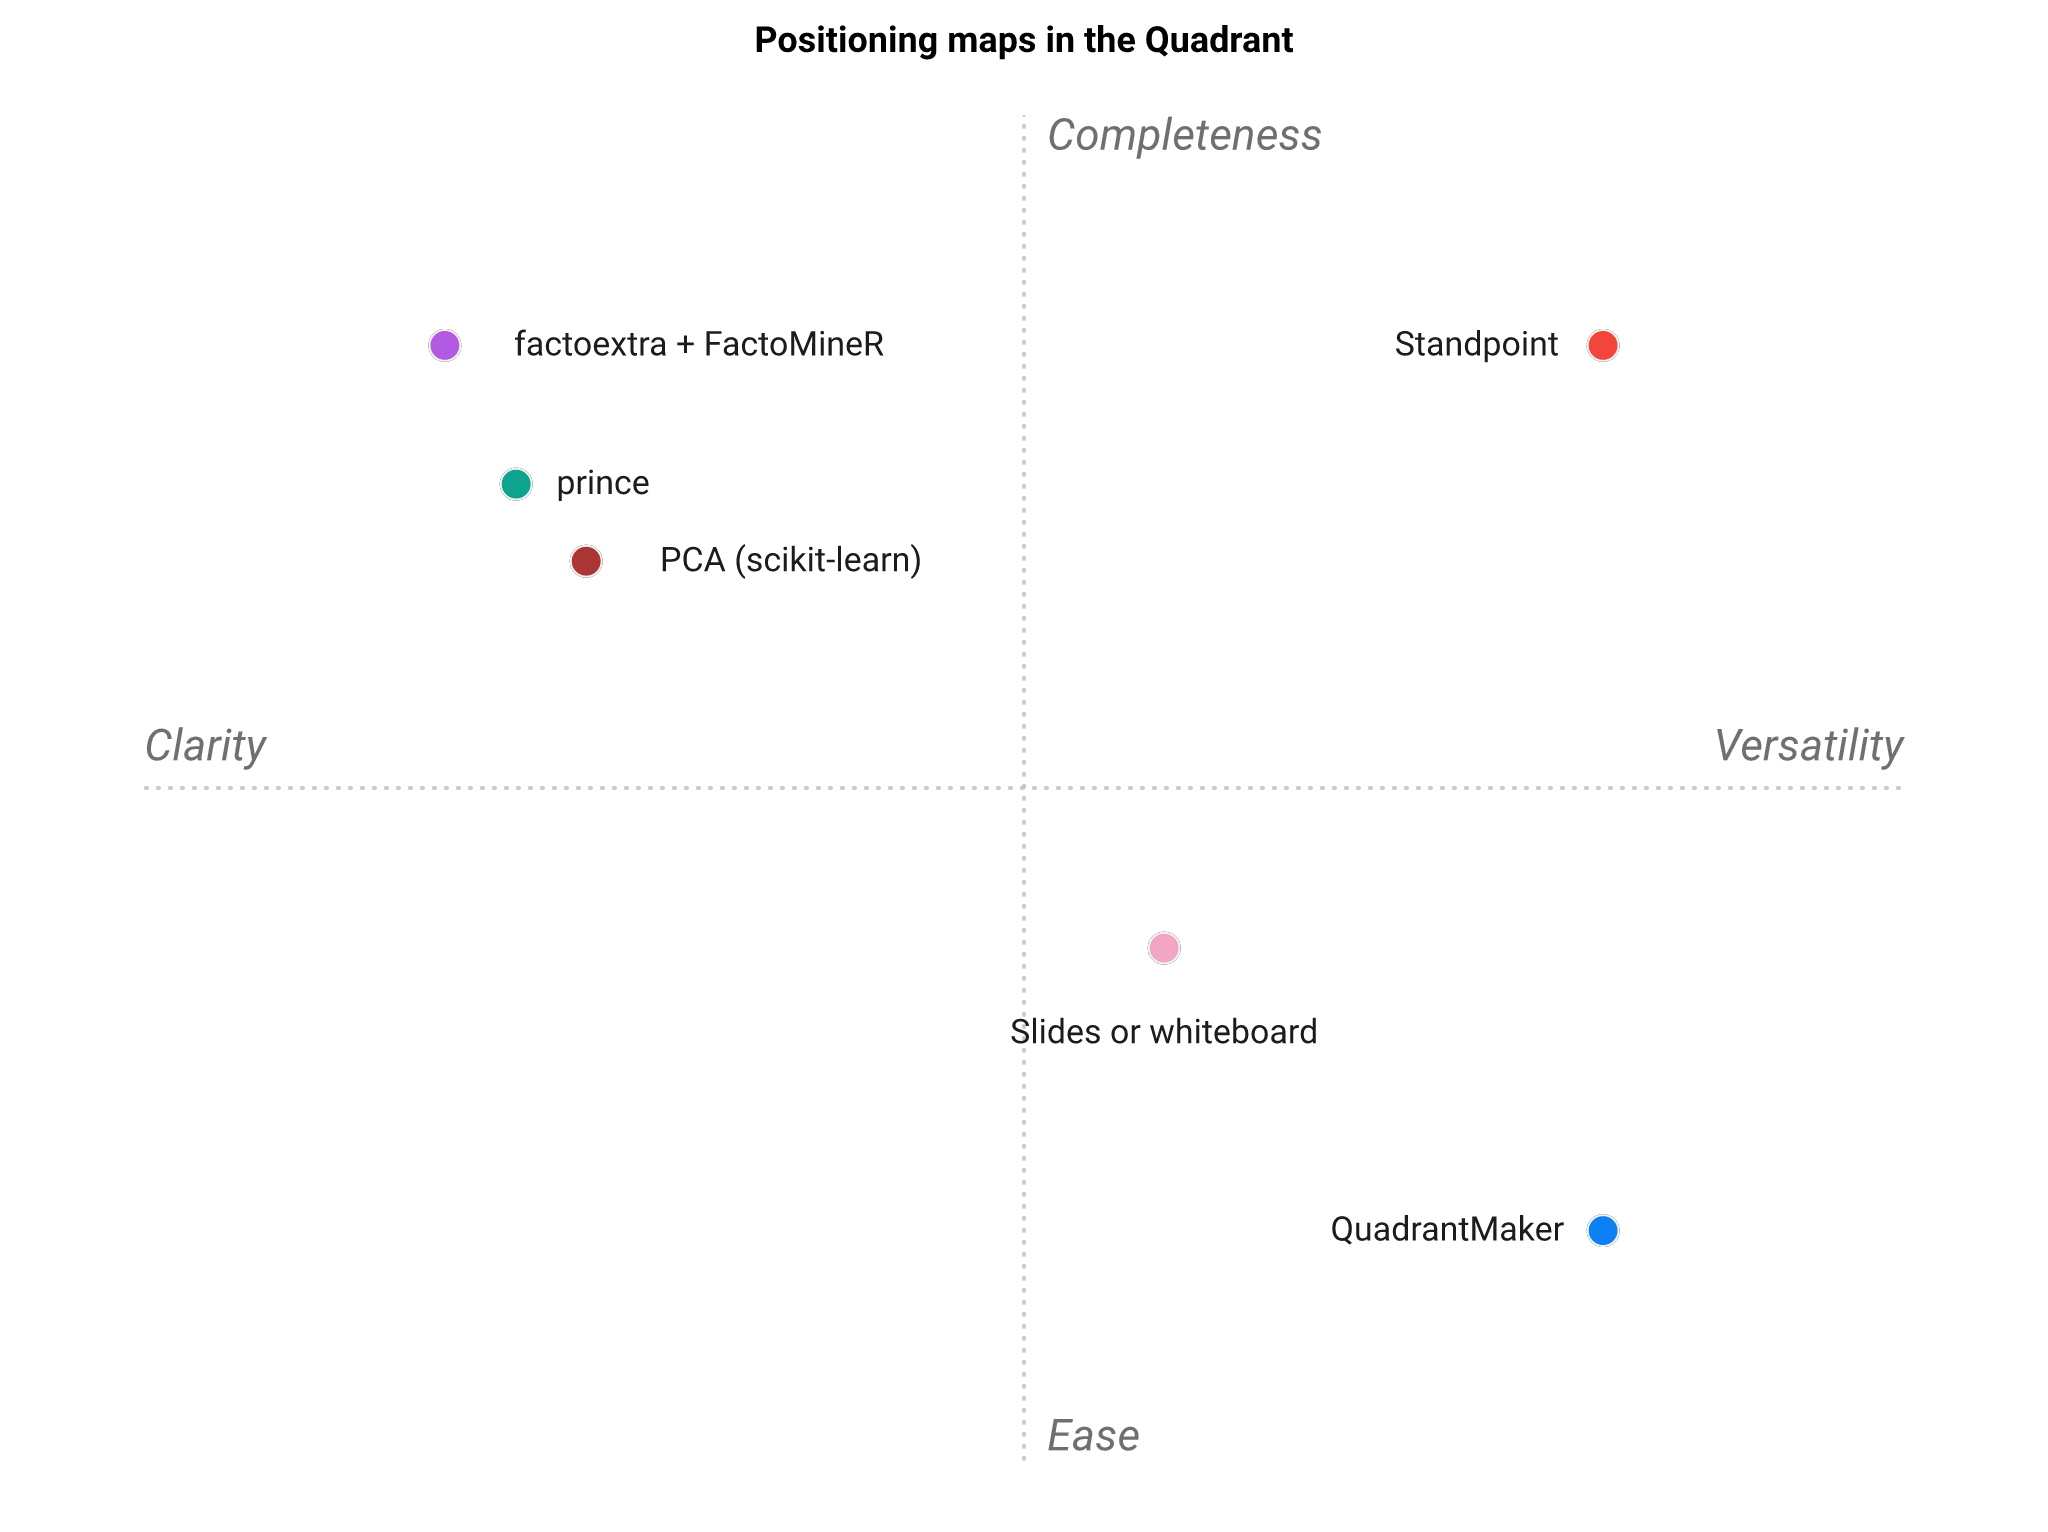
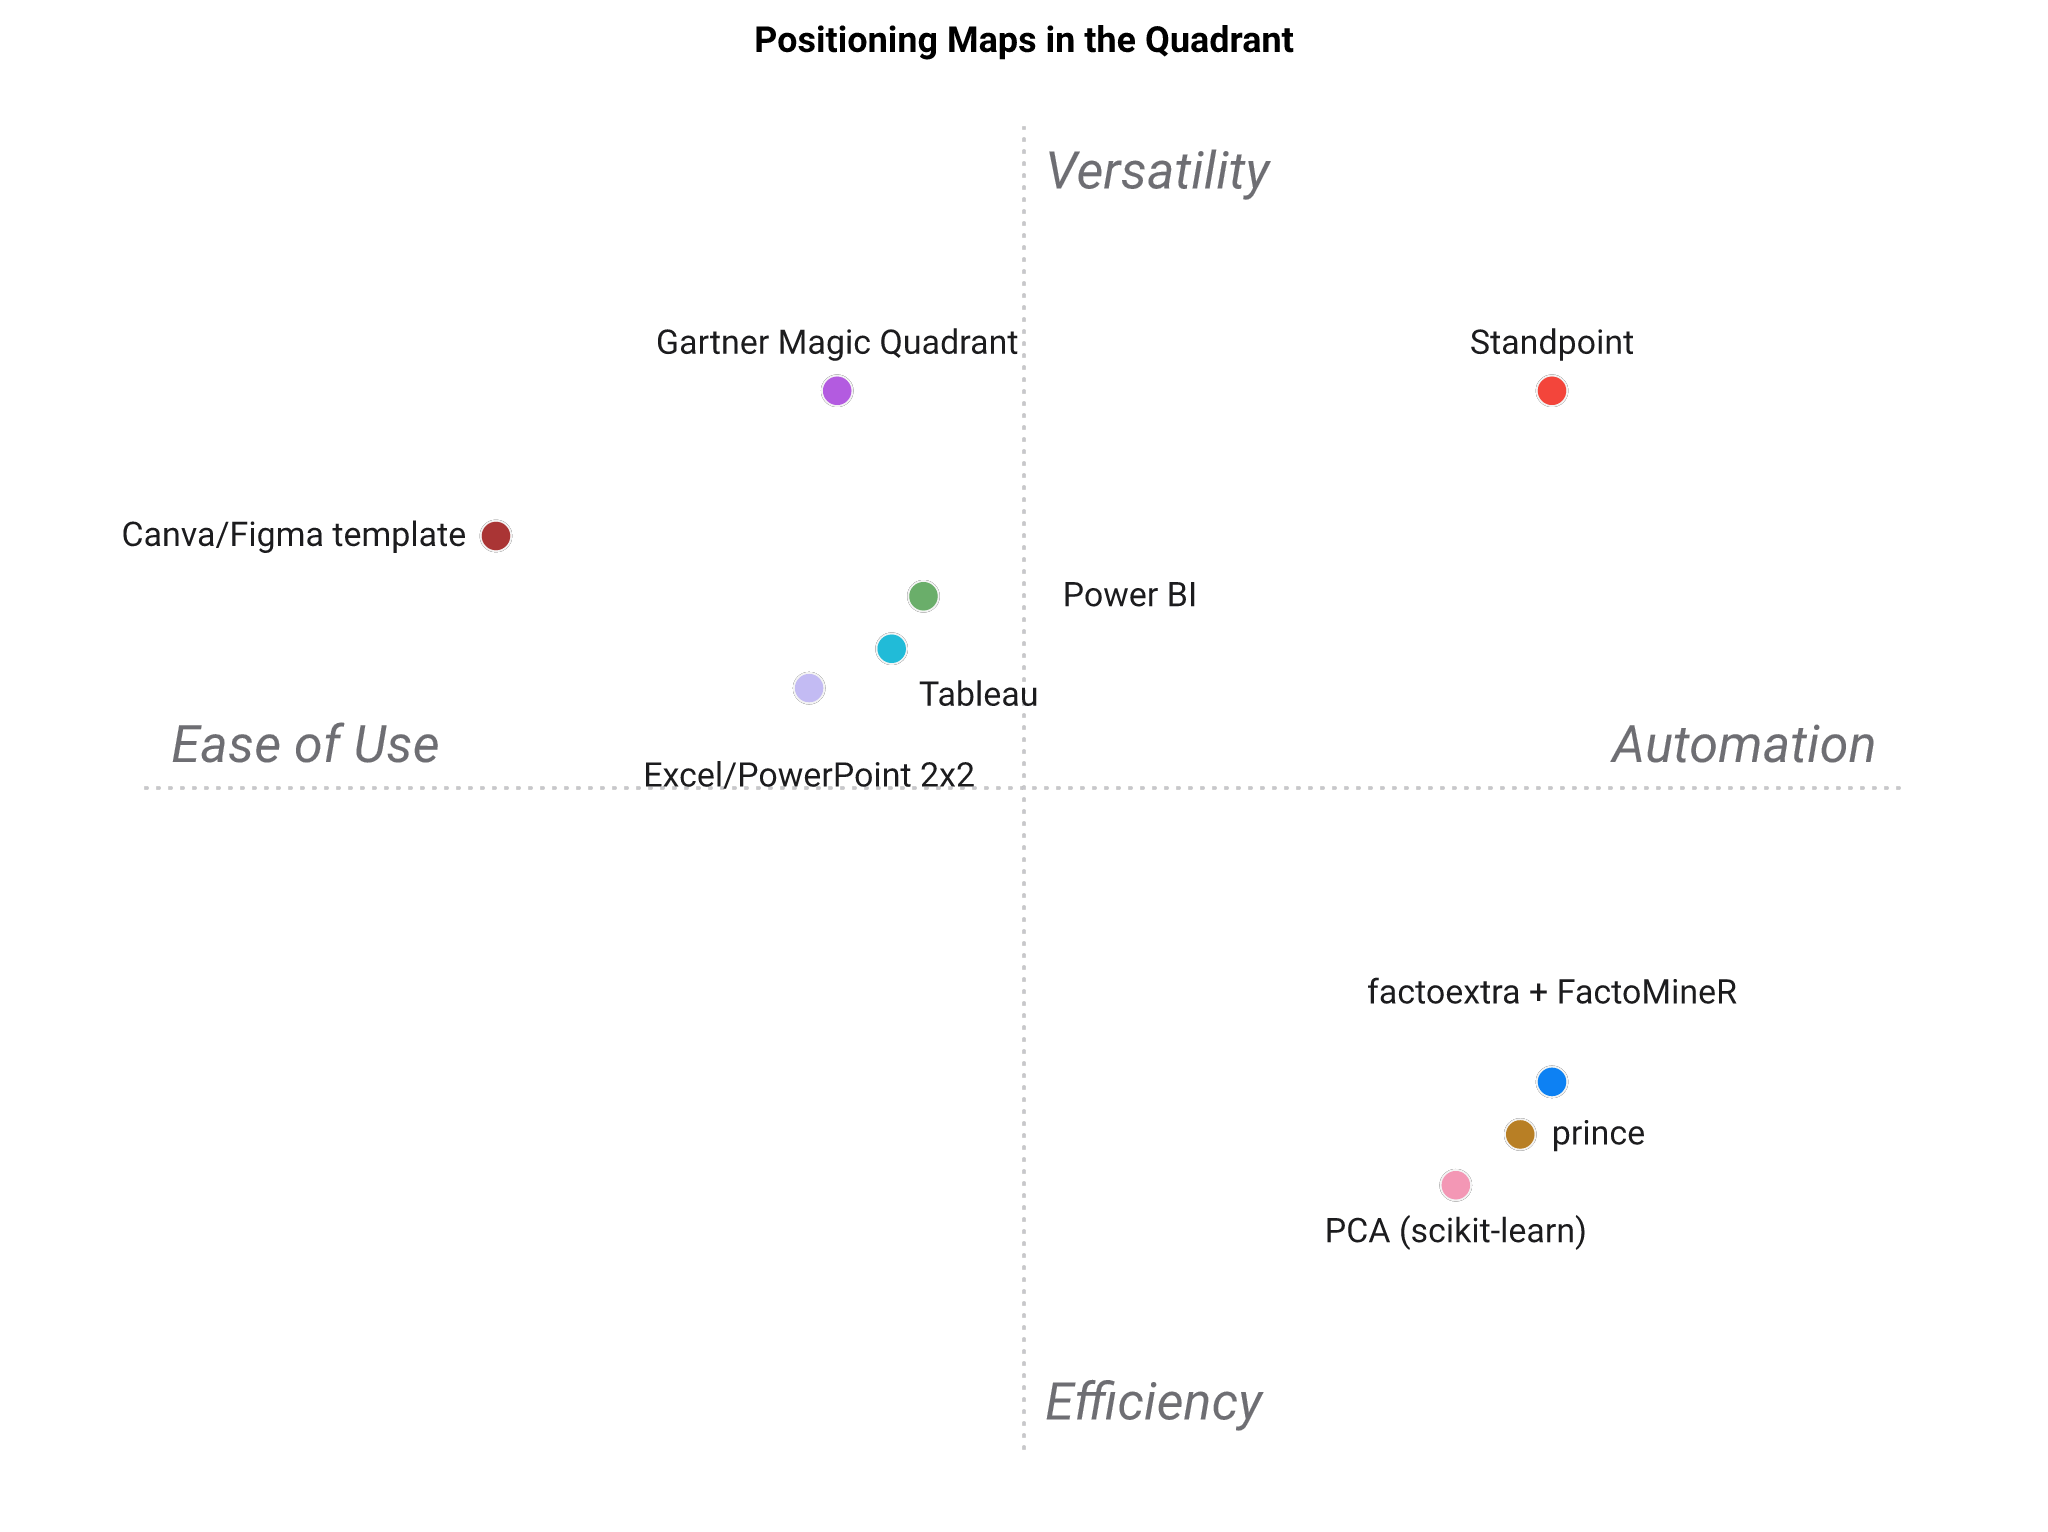
docs(landscape): richer comparison table + regenerated positioning map
Expand the LANDSCAPE / PAYSAGE comparison from ~5 to 9 options spanning the real
poles: the PCA toolkit family (prince, scikit-learn, factoextra+FactoMineR), the
manual/BI family (Tableau, Power BI, Excel/PowerPoint 2x2, Canva/Figma), and the
Gartner Magic Quadrant at the written-analysis pole. Tighten the criteria so each
column discriminates. Regenerate the figure via standpoint 0.6.0 and reconcile the
"How to read it" prose with the new option set.

diff --git a/PAYSAGE.md b/PAYSAGE.md
@@ -10,14 +10,17 @@ l'outil, exactement comme n'importe quel autre exemple.
 La comparaison (le plus haut, le meilleur, sur une échelle de 1 à 5) :
 
 <!-- TABLE:START -->
-| Cartes de positionnement | Nommage Automatique des Axes | Sortie Multilingue | Exécution Locale | Une Seule Commande | Livrable Triple | Reproductibilité | Axes Lisibles | Simplicité d'Installation |
+| Cartes de positionnement | Nommage Automatique des Axes | Une Seule Commande | Exécution Locale | Coordonnées Reproductibles | Analyse Rédigée | Sans Code | Sortie Multilingue | Fondé sur l'ACP |
 | --- | :---: | :---: | :---: | :---: | :---: | :---: | :---: | :---: |
-| **Standpoint** | ⭐⭐⭐⭐⭐ | ⭐⭐⭐⭐⭐ | ⭐⭐⭐⭐⭐ | ⭐⭐⭐⭐⭐ | ⭐⭐⭐⭐⭐ | ⭐⭐⭐⭐⭐ | ⭐⭐⭐⭐ | ⭐⭐⭐⭐ |
-| prince | ⭐ | ⭐ | ⭐⭐⭐⭐⭐ | ⭐⭐ | ⭐ | ⭐⭐⭐⭐⭐ | ⭐⭐⭐⭐⭐ | ⭐⭐⭐ |
-| PCA (scikit-learn) | ⭐ | ⭐ | ⭐⭐⭐⭐⭐ | ⭐⭐ | ⭐ | ⭐⭐⭐⭐⭐ | ⭐⭐⭐⭐ | ⭐⭐⭐ |
-| factoextra + FactoMineR | ⭐ | ⭐ | ⭐⭐⭐⭐⭐ | ⭐⭐ | ⭐⭐ | ⭐⭐⭐⭐⭐ | ⭐⭐⭐⭐⭐ | ⭐⭐ |
-| QuadrantMaker | ⭐ | ⭐⭐ | ⭐⭐ | ⭐⭐⭐⭐ | ⭐ | ⭐ | ⭐⭐ | ⭐⭐⭐⭐⭐ |
-| Diapositives ou tableau blanc | ⭐ | ⭐⭐⭐ | ⭐⭐⭐⭐⭐ | ⭐⭐ | ⭐ | ⭐ | ⭐⭐ | ⭐⭐⭐⭐ |
+| **Standpoint** | ⭐⭐⭐⭐⭐ | ⭐⭐⭐⭐⭐ | ⭐⭐⭐⭐⭐ | ⭐⭐⭐⭐⭐ | ⭐⭐⭐⭐⭐ | ⭐⭐⭐⭐ | ⭐⭐⭐⭐⭐ | ⭐⭐⭐⭐⭐ |
+| prince | ⭐ | ⭐⭐ | ⭐⭐⭐⭐⭐ | ⭐⭐⭐⭐⭐ | ⭐ | ⭐ | ⭐ | ⭐⭐⭐⭐⭐ |
+| PCA (scikit-learn) | ⭐ | ⭐ | ⭐⭐⭐⭐⭐ | ⭐⭐⭐⭐⭐ | ⭐ | ⭐ | ⭐ | ⭐⭐⭐⭐⭐ |
+| factoextra + FactoMineR | ⭐ | ⭐⭐ | ⭐⭐⭐⭐⭐ | ⭐⭐⭐⭐⭐ | ⭐⭐ | ⭐ | ⭐ | ⭐⭐⭐⭐⭐ |
+| Tableau | ⭐ | ⭐⭐⭐ | ⭐⭐⭐ | ⭐⭐⭐ | ⭐ | ⭐⭐⭐⭐ | ⭐⭐ | ⭐ |
+| Power BI | ⭐ | ⭐⭐⭐ | ⭐⭐⭐ | ⭐⭐⭐ | ⭐⭐ | ⭐⭐⭐⭐ | ⭐⭐ | ⭐ |
+| Gartner Magic Quadrant | ⭐⭐ | ⭐ | ⭐⭐⭐ | ⭐⭐ | ⭐⭐⭐⭐⭐ | ⭐⭐⭐⭐⭐ | ⭐⭐ | ⭐ |
+| Excel/PowerPoint 2x2 | ⭐ | ⭐ | ⭐⭐⭐⭐⭐ | ⭐ | ⭐ | ⭐⭐⭐⭐ | ⭐⭐⭐ | ⭐ |
+| Modèle Canva/Figma | ⭐ | ⭐ | ⭐⭐ | ⭐ | ⭐ | ⭐⭐⭐⭐⭐ | ⭐⭐⭐ | ⭐ |
 <!-- TABLE:END -->
 
 ## Carte de positionnement
@@ -27,7 +30,7 @@ Représentation 2D du tableau ci-dessus.
 
 ![Carte de positionnement](https://raw.githubusercontent.com/warith-harchaoui/standpoint/main/assets/paysage.png)
 
-La carte est un résumé en 2D des 8 critères : à lire comme une forme, pas comme un classement. « Standpoint » se situe dans le coin en haut à droite. Les axes se lisent **Horizontal (Précision ↔ Facilité d'utilisation)** et **Vertical (Simplicité ↔ Complétude)**.
+La carte est un résumé en 2D des 8 critères : à lire comme une forme, pas comme un classement. « Standpoint » se situe dans le coin en haut à droite. Les axes se lisent **Horizontal — Simplicité ↔ Compréhensibilité** et **Vertical — Précision ↔ Accessibilité**.
 <!-- FIGURE:END -->
 
 Les en-têtes du tableau étant en français, la carte sort **entièrement en français** :
@@ -45,15 +48,20 @@ Deux familles se font face :
   composantes et des nombres, pas une carte étiquetée, rédigée et prête à partager.
   Nommer les axes, orienter autour d'une référence, colorer et rédiger reste à votre
   charge.
-- **Les faiseurs de quadrants manuels** (QuadrantMaker, ou simplement des
-  diapositives / un tableau blanc) sont rapides à prendre en main et sans code, mais
-  chaque point est placé à la main : rien n'est dérivé des données, rien n'est
-  reproductible, et les axes veulent dire ce que vous décidez.
+- **Les tableaux de bord BI et outils de mise en page manuels** (`Tableau`,
+  `Power BI`, les 2×2 sous `Excel`/`PowerPoint`, les modèles `Canva`/`Figma`) sont
+  rapides à prendre en main et avec peu ou pas de code, mais chaque point est placé à
+  la main : rien n'est dérivé des données, rien n'est reproductible, et les axes
+  veulent dire ce que vous décidez.
+- **Le Magic Quadrant de Gartner** occupe le pôle de l'analyse rédigée : il livre un
+  quadrant étiqueté accompagné d'un véritable texte, mais les placements sont
+  arbitrés à la main par des analystes — non dérivés d'une matrice, non
+  reproductibles, et impossibles à exécuter soi-même.
 
-Standpoint occupe le coin que ni l'une ni l'autre famille ne couvre : la
+Standpoint occupe le coin qu'aucun d'eux ne couvre : la
 carte **dérivée** d'une boîte à outils ACP *plus* l'artéfact **fini, étiqueté et
-rédigé** d'un faiseur manuel : noms d'axes, sortie multilingue et livrable en trois
-volets, en une seule commande.
+rédigé** d'une mise en page BI ou d'un write-up d'analyste : noms d'axes, sortie
+multilingue et livrable en trois volets, en une seule commande.
 
 ## Réserves honnêtes
 

diff --git a/LANDSCAPE.md b/LANDSCAPE.md
@@ -9,14 +9,17 @@ a comparison table run through the tool, exactly like any other example.
 The comparison (higher is better, on a 1–5 scale):
 
 <!-- TABLE:START -->
-| Positioning Maps | Automated Axis Naming | Multilingual Output | Local Execution | One Command | Threefold Deliverable | Reproducibility | Readable Axes | Ease of Setup |
+| Positioning Maps | Automated Axis Naming | One Command | Local Execution | Reproducible Coordinates | Written Analysis | No-Code Workflow | Multilingual Output | PCA-Based |
 | --- | :---: | :---: | :---: | :---: | :---: | :---: | :---: | :---: |
-| **Standpoint** | ⭐⭐⭐⭐⭐ | ⭐⭐⭐⭐⭐ | ⭐⭐⭐⭐⭐ | ⭐⭐⭐⭐⭐ | ⭐⭐⭐⭐⭐ | ⭐⭐⭐⭐⭐ | ⭐⭐⭐⭐ | ⭐⭐⭐⭐ |
-| prince | ⭐ | ⭐ | ⭐⭐⭐⭐⭐ | ⭐⭐ | ⭐ | ⭐⭐⭐⭐⭐ | ⭐⭐⭐⭐⭐ | ⭐⭐⭐ |
-| PCA (scikit-learn) | ⭐ | ⭐ | ⭐⭐⭐⭐⭐ | ⭐⭐ | ⭐ | ⭐⭐⭐⭐⭐ | ⭐⭐⭐⭐ | ⭐⭐⭐ |
-| factoextra + FactoMineR | ⭐ | ⭐ | ⭐⭐⭐⭐⭐ | ⭐⭐ | ⭐⭐ | ⭐⭐⭐⭐⭐ | ⭐⭐⭐⭐⭐ | ⭐⭐ |
-| QuadrantMaker | ⭐ | ⭐⭐ | ⭐⭐ | ⭐⭐⭐⭐ | ⭐ | ⭐ | ⭐⭐ | ⭐⭐⭐⭐⭐ |
-| Slides or whiteboard | ⭐ | ⭐⭐⭐ | ⭐⭐⭐⭐⭐ | ⭐⭐ | ⭐ | ⭐ | ⭐⭐ | ⭐⭐⭐⭐ |
+| **Standpoint** | ⭐⭐⭐⭐⭐ | ⭐⭐⭐⭐⭐ | ⭐⭐⭐⭐⭐ | ⭐⭐⭐⭐⭐ | ⭐⭐⭐⭐⭐ | ⭐⭐⭐⭐ | ⭐⭐⭐⭐⭐ | ⭐⭐⭐⭐⭐ |
+| prince | ⭐ | ⭐⭐ | ⭐⭐⭐⭐⭐ | ⭐⭐⭐⭐⭐ | ⭐ | ⭐ | ⭐ | ⭐⭐⭐⭐⭐ |
+| PCA (scikit-learn) | ⭐ | ⭐ | ⭐⭐⭐⭐⭐ | ⭐⭐⭐⭐⭐ | ⭐ | ⭐ | ⭐ | ⭐⭐⭐⭐⭐ |
+| factoextra + FactoMineR | ⭐ | ⭐⭐ | ⭐⭐⭐⭐⭐ | ⭐⭐⭐⭐⭐ | ⭐⭐ | ⭐ | ⭐ | ⭐⭐⭐⭐⭐ |
+| Tableau | ⭐ | ⭐⭐⭐ | ⭐⭐⭐ | ⭐⭐⭐ | ⭐ | ⭐⭐⭐⭐ | ⭐⭐ | ⭐ |
+| Power BI | ⭐ | ⭐⭐⭐ | ⭐⭐⭐ | ⭐⭐⭐ | ⭐⭐ | ⭐⭐⭐⭐ | ⭐⭐ | ⭐ |
+| Gartner Magic Quadrant | ⭐⭐ | ⭐ | ⭐⭐⭐ | ⭐⭐ | ⭐⭐⭐⭐⭐ | ⭐⭐⭐⭐⭐ | ⭐⭐ | ⭐ |
+| Excel/PowerPoint 2x2 | ⭐ | ⭐ | ⭐⭐⭐⭐⭐ | ⭐ | ⭐ | ⭐⭐⭐⭐ | ⭐⭐⭐ | ⭐ |
+| Canva/Figma template | ⭐ | ⭐ | ⭐⭐ | ⭐ | ⭐ | ⭐⭐⭐⭐⭐ | ⭐⭐⭐ | ⭐ |
 <!-- TABLE:END -->
 
 ## Positioning map
@@ -26,7 +29,7 @@ The comparison (higher is better, on a 1–5 scale):
 
 ![Positioning map](https://raw.githubusercontent.com/warith-harchaoui/standpoint/main/assets/landscape.png)
 
-The map is a 2-D summary of the eight criteria, so read it as a shape, not a scoreboard. `Standpoint` is at the top-right corner. The axes read **Horizontal (Clarity ↔ Versatility)** and **Vertical (Ease ↔ Completeness)**.
+The map is a 2-D summary of the eight criteria, so read it as a shape, not a scoreboard. `Standpoint` is at the top-right corner. The axes read **Horizontal — Ease of Use ↔ Automation** and **Vertical — Efficiency ↔ Versatility**.
 <!-- FIGURE:END -->
 
 ## How to read it
@@ -38,14 +41,19 @@ Two families sit opposite each other:
   (reproducible, scriptable, readable loadings), but they hand you components and
   numbers, not a labelled, written, ready-to-share map. Naming the axes, orienting
   around a reference, colouring, and writing it up is left to you.
-- **The manual quadrant makers** (QuadrantMaker, or just slides / a whiteboard) are
-  quick to pick up and need no code, but every dot is placed by hand: nothing is
-  derived from the data, nothing is reproducible, and the axes mean whatever you
-  decide they mean.
+- **The BI dashboards and manual layout tools** (`Tableau`, `Power BI`,
+  `Excel`/`PowerPoint` 2×2s, `Canva`/`Figma` templates) are quick to pick up and need
+  little or no code, but every dot is placed by hand: nothing is derived from the
+  data, nothing is reproducible, and the axes mean whatever you decide they mean.
+- **Gartner's Magic Quadrant** sits at the written-analysis pole: it ships a labelled
+  quadrant with a genuine narrative around it, but the placements are hand-curated by
+  analysts — not derived from a matrix, not reproducible, and not something you can
+  run yourself.
 
-Standpoint's pitch is the corner neither family occupies: the **derived** map of a
-PCA toolkit *plus* the **finished, labelled, written** artefact of a manual maker:
-axis names, multilingual output, and a three-fold deliverable, from one command.
+Standpoint's pitch is the corner none of them occupies: the **derived** map of a
+PCA toolkit *plus* the **finished, labelled, written** artefact of a BI layout or an
+analyst write-up: axis names, multilingual output, and a three-fold deliverable, from
+one command.
 
 ## Honest caveats
 
